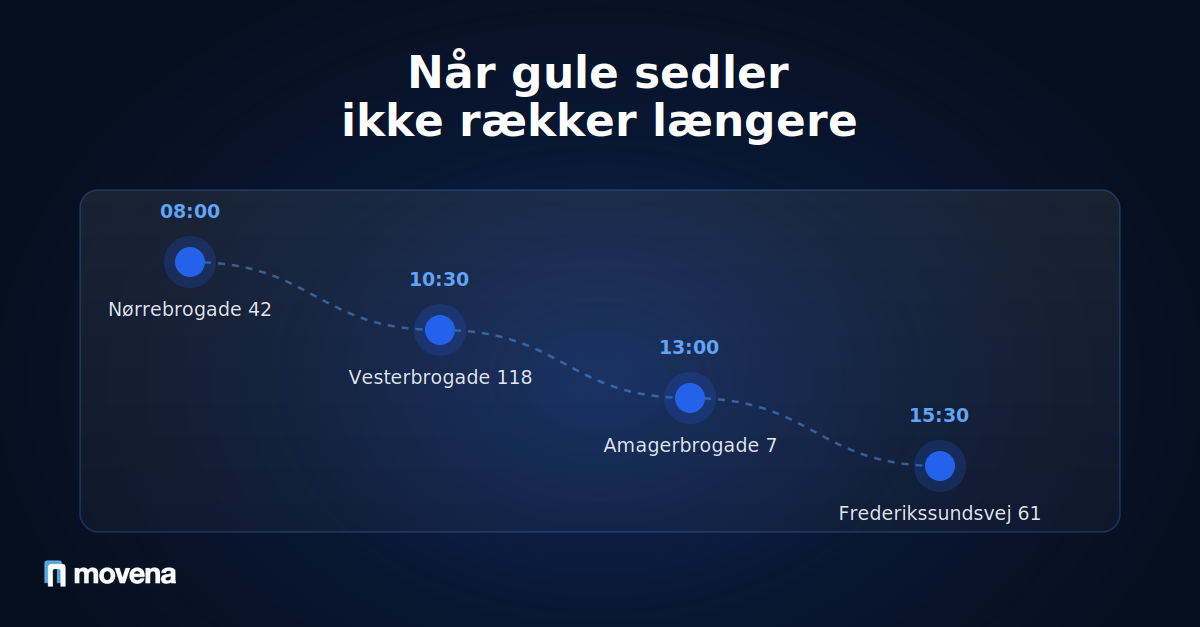
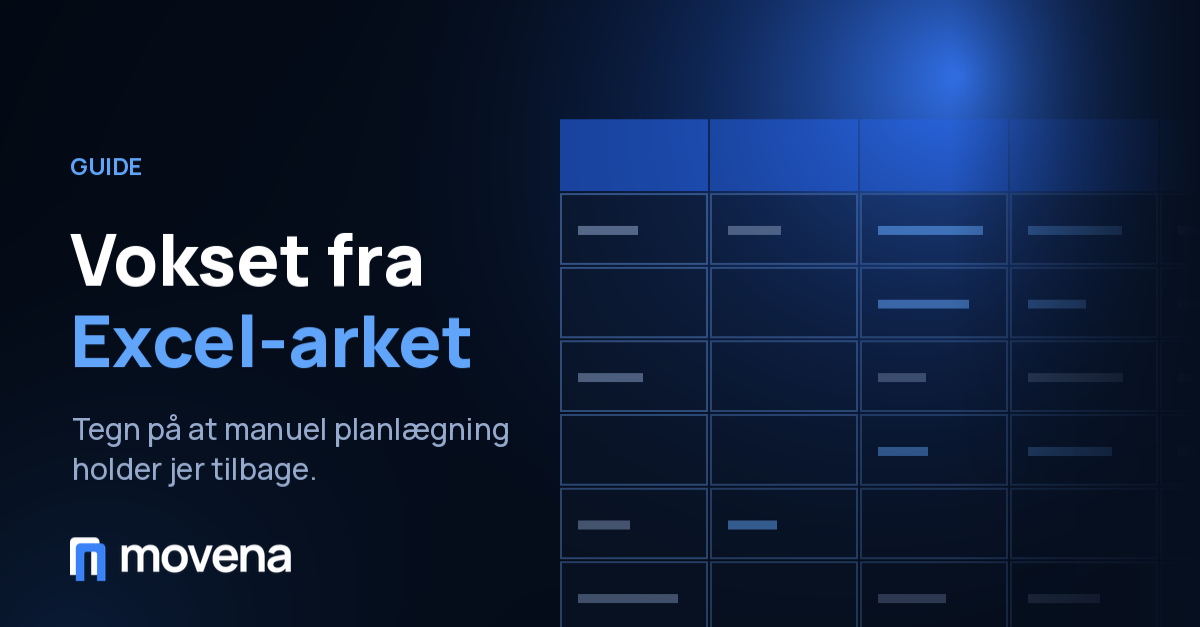
Add Danish version of moving-company-dispatch with Excel framing
The Danish version reframes manual dispatch around Excel and spreadsheets
rather than the English source's sticky notes and whiteboards, since that
is what Danish moving companies actually run on. Title, excerpt, meta,
alt text and all three in-body references carry the same framing. The
previous Danish cover read "Naar gule sedler ikke raekker laengere" and is
replaced by the spreadsheet cover.

The new cover arrived at 1200x630. og:image:width and height are
hardcoded to 1200x627 for every post and the other nine Danish covers are
627, so it is scaled to match rather than shipping declared dimensions it
does not have. Re-encoded with adaptive PNG filtering after scaling:
pixel-identical to the sips output, 188KB down to 118KB.

The English article and its cover are untouched.

Claude-Session: https://claude.ai/code/session_017MCs2Khp43Mp98XwXzXNP6

diff --git a/content/blog/moving-company-dispatch.da.md b/content/blog/moving-company-dispatch.da.md
@@ -1,0 +1,60 @@
+---
+title: "Når Excel-arket ikke rækker længere: tegn på at I er vokset fra manuel planlægning"
+slug: "vokset-fra-excel-arket-disponering"
+date: "2026-06-22"
+excerpt: "At disponere efter hukommelsen og et Excel-ark fungerer, indtil det ikke gør. Her er de tydelige tegn på, at jeres flyttefirma er vokset fra manuel planlægning."
+metaTitle: "Disponering i flyttefirma: når Excel ikke rækker"
+metaDescription: "At disponere efter hukommelsen og et Excel-ark fungerer, indtil det ikke gør. Her er tegnene på, at I er vokset fra manuel planlægning."
+image: "/blog/moving-company-dispatch-da.png"
+imageAlt: "Excel-ark med dagens flytteopgaver fordelt i rækker og kolonner"
+category: "Guide"
+tags: ["disponering flyttefirma", "planlægning af flytteopgaver", "ruteplanlægning flytning", "drift af flyttefirma", "software til flyttefirmaer"]
+locale: "da"
+draft: false
+---
+
+I lang tid er disponering bare noget, I har i hovedet.
+
+I kender folkene. I kender bilerne. I ved, hvem der er hvor. Et Excel-ark og et par noter er nok, og det fungerer.
+
+Indtil en dag, hvor det ikke gør. Her er tegnene på, at I har krydset den grænse.
+
+## I disponerer efter hukommelsen
+
+Det første tegn er, at hele billedet ligger i hovedet på én person.
+
+Den person ved, hvilket hold der er på hvilket job, hvilken bil der er ledig, hvem der er syg. Og det går fint, lige indtil vedkommende selv er ude på en flytning eller har fri, og ingen andre kan svare på et simpelt spørgsmål om planen.
+
+Når driften går i stå, fordi én person ikke kan træffes, er I vokset fra opsætningen.
+
+## Dobbeltbookingerne er begyndt
+
+Det tydeligste tegn er overbooking.
+
+To job booket på den samme bil. Det samme hold lovet væk til to kunder. Det skete én gang, og I opdagede det. Så skete det igen. Nu tjekker I to gange, før I bekræfter noget som helst, fordi I har lært ikke at stole på regnearket.
+
+Dobbeltbookinger er ikke uheld. Det er det, der sker, når planen ligger for mange steder, og intet enkelt sted viser sandheden.
+
+## I kan ikke se, hvad der er ledigt
+
+Stil jer selv et simpelt spørgsmål: hvilke hold og biler er ledige på torsdag i næste uge?
+
+Hvis svaret kræver, at I ringer til nogen, åbner regnearket og krydser fingre, så er det dér, problemet ligger. I kan ikke planlægge ordentligt, når I ikke kan se klart. Hver booking bliver et lille væddemål.
+
+## I spiller hasard på hvert job
+
+Og det er reelt det, manuel planlægning bliver til, efterhånden som I vokser. En række små væddemål.
+
+I vædder på, at bilen er ledig. På at holdet husker det. På at intet blev dobbeltbooket. Som regel vinder I. Men de gange I taber, koster det en panikløsning, en sur kunde eller et job, I slet ikke kunne køre.
+
+## Hvad der ændrer sig med et rigtigt system
+
+Et system til disponering gør især én ting: det viser jer sandheden ét sted.
+
+Hvilke hold og biler der er ledige, med et enkelt blik. En booking, der ikke kan kollidere med en, der allerede ligger der. En plan, som alle i firmaet kan se, ikke kun den, der har den i hovedet. Og fordi dagens opgaver ligger samlet, kan I også lægge ruten efter, hvad der rent faktisk passer sammen.
+
+Hasardspillet stopper. I planlægger ud fra det, der faktisk er sandt, i stedet for det, I håber er sandt.
+
+Vil I se, hvordan [Movena](/da) håndterer disponering, kan I [prøve besparelsesberegneren](/da/savings-calculator) eller booke en kort demo. Femten minutter, uden salgssnak.
+
+Sætter en ny standard for, hvordan flyttefirmaer arbejder.
